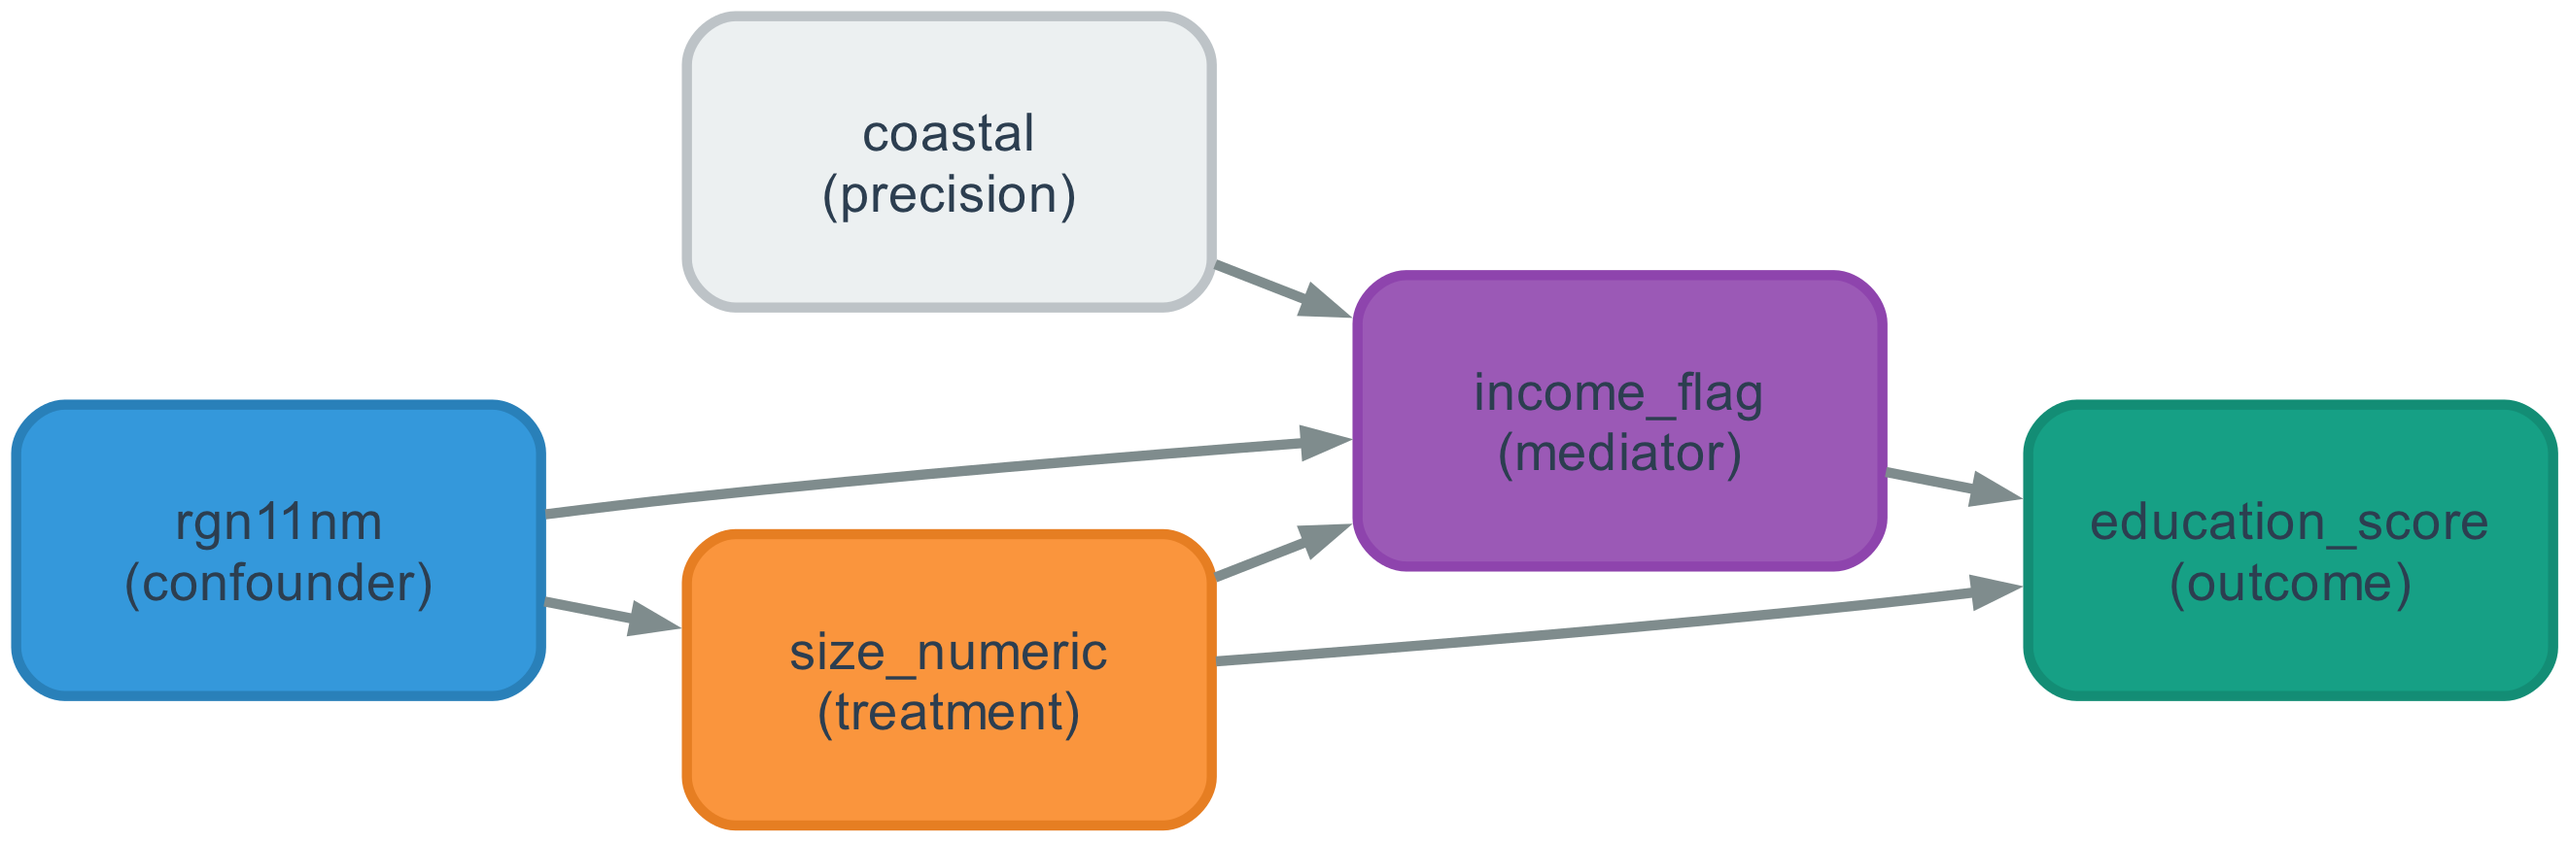
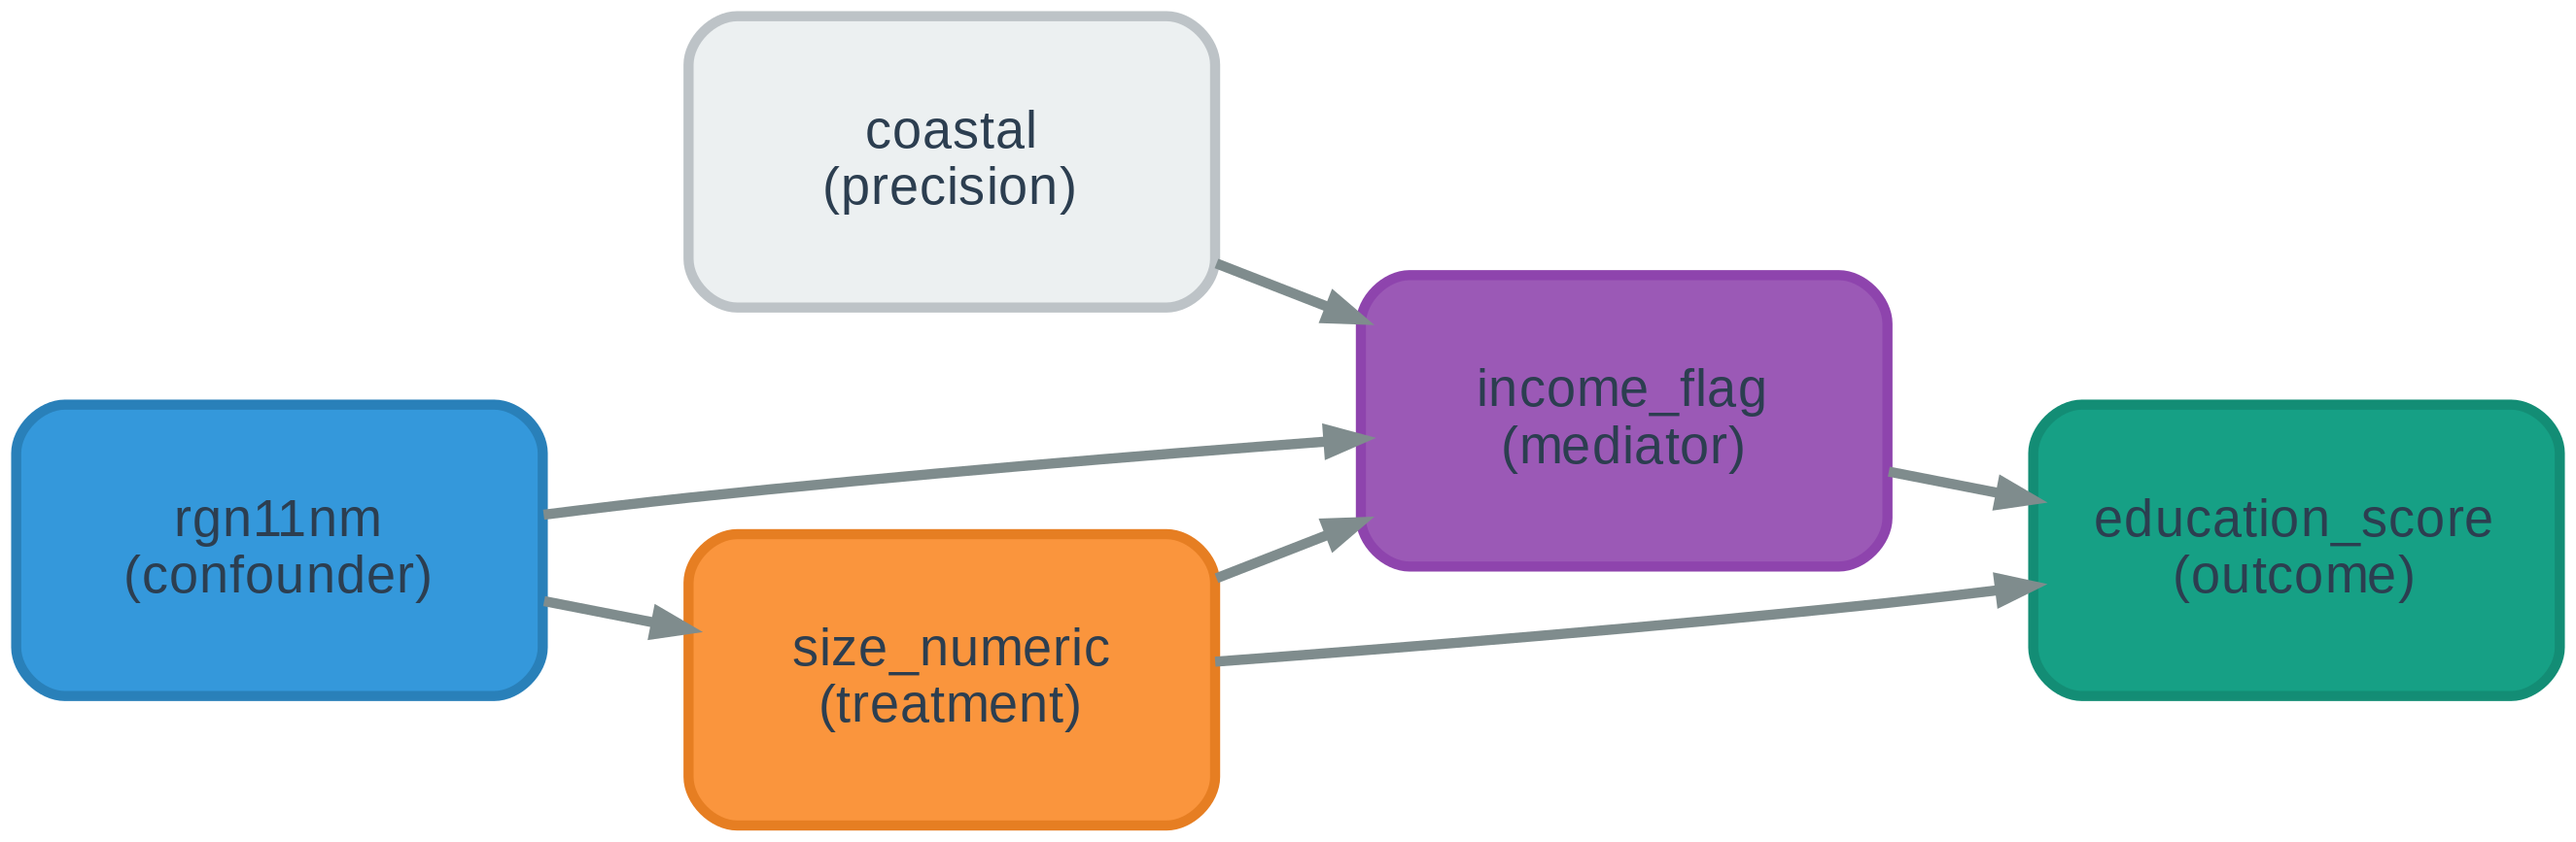
Rename causal-duplo to causal-blocks
Rename the package directory duplo/ to causalblocks/ and update every
reference (imports, packaging, README, essay, docs, notebooks, CI) to
avoid the Duplo trademark.

diff --git a/causalblocks/dag.py b/causalblocks/dag.py
@@ -71,7 +71,7 @@ class CausalDAG:
         dag.add("town_size", to={"income": 0.4, "attainment": 0.7})
         dag.add("income", to={"attainment": 2.1})
 
-    Edge weights are only used by :func:`duplo.simulate.simulate`; they default
+    Edge weights are only used by :func:`causalblocks.simulate.simulate`; they default
     to 1.0 and can be ignored entirely if you are not simulating.
     """
 

diff --git a/causalblocks/__init__.py b/causalblocks/__init__.py
@@ -1,6 +1,6 @@
-"""causal-duplo: build a causal DAG once, and derive everything else from it.
+"""causal-blocks: build a causal DAG once, and derive everything else from it.
 
-    from duplo import CausalDAG, simulate, true_total_effect
+    from causalblocks import CausalDAG, simulate, true_total_effect
 
     dag = (
         CausalDAG()

diff --git a/causalblocks/style.py b/causalblocks/style.py
@@ -1,7 +1,7 @@
 """Colour palette, shared by the DAG renderer and the matplotlib charts.
 
 Colours are keyed by *role*, not by node, so a diagram cannot say something the
-graph does not. See :mod:`duplo.dag` for where roles come from.
+graph does not. See :mod:`causalblocks.dag` for where roles come from.
 """
 
 from .dag import Role

diff --git a/tests/test_dag.py b/tests/test_dag.py
@@ -3,7 +3,7 @@
 import networkx as nx
 import pytest
 
-from duplo import CausalDAG, CyclicGraphError, Role, confounded, m_bias, mediated
+from causalblocks import CausalDAG, CyclicGraphError, Role, confounded, m_bias, mediated
 
 
 class TestConstruction:

diff --git a/tests/test_simulate.py b/tests/test_simulate.py
@@ -9,7 +9,7 @@ import numpy as np
 import pytest
 import statsmodels.api as sm
 
-from duplo import (
+from causalblocks import (
     CausalDAG,
     CyclicGraphError,
     confounded,

diff --git a/README.md b/README.md
@@ -1,4 +1,4 @@
-# causal-duplo
+# causal-blocks
 
 **Do small towns provide better education?** England's smaller towns post better
 educational outcomes than its larger ones. Adjust for deprivation and the
@@ -33,7 +33,7 @@ chances to write it differently.
 So you author it once:
 
 ```python
-from duplo import CausalDAG
+from causalblocks import CausalDAG
 
 dag = (
     CausalDAG()
@@ -92,7 +92,7 @@ path-tracing rule. So you can plant an effect and check an estimator finds it:
 
 ```python
 import statsmodels.api as sm
-from duplo import simulate, true_total_effect, m_bias
+from causalblocks import simulate, true_total_effect, m_bias
 
 def ols(df, treatment, outcome, controls=()):
     design = sm.add_constant(df[[treatment, *controls]])
@@ -131,7 +131,7 @@ Python 3.11+, and [Graphviz](https://graphviz.org/download/)
 (`brew install graphviz` / `apt install graphviz`).
 
 ```bash
-git clone https://github.com/oozr/causal-duplo && cd causal-duplo
+git clone https://github.com/oozr/causal-blocks && cd causal-blocks
 python -m venv .venv && source .venv/bin/activate
 pip install -e ".[dev]"
 pytest
@@ -143,7 +143,7 @@ jupyter lab notebooks/
 ## Layout
 
 ```
-duplo/
+causalblocks/
   dag.py        CausalDAG: build, infer roles, explain, draw, export
   simulate.py   linear-Gaussian SCM + closed-form ground truth
   examples.py   three graphs with known answers

diff --git a/docs/dowhy-reference.md b/docs/dowhy-reference.md
@@ -116,9 +116,9 @@ dowhy.datasets.xy_dataset(effect=1.2, sd_error=0.2)
 | `sd_error` | noise standard deviation |
 | `treatment_is_binary` | make treatment 0/1 rather than continuous |
 
-`duplo.simulate` covers the same ground from a DAG you wrote yourself, with
+`causalblocks.simulate` covers the same ground from a DAG you wrote yourself, with
 `true_total_effect()` as the ground truth. Use DoWhy's when you want a standard
-setup; use `duplo`'s when the graph shape is the thing you are studying.
+setup; use `causalblocks`'s when the graph shape is the thing you are studying.
 
 ### Fat-tailed noise
 

diff --git a/essay/causality-belongs-in-the-curriculum.md b/essay/causality-belongs-in-the-curriculum.md
@@ -199,7 +199,7 @@ material answers the question you were hired to answer.
 
 *The full analysis, the simulated worked examples, and the small library that
 derives variable roles from graph structure are in
-[causal-duplo](https://github.com/oozr/causal-duplo). Data: ONS,
+[causal-blocks](https://github.com/oozr/causal-blocks). Data: ONS,
 [Educational attainment of young people in English towns](https://www.ons.gov.uk/peoplepopulationandcommunity/educationandchildcare/datasets/educationalattainmentofyoungpeopleinenglishtownsdata)
 (2023), Open Government Licence v3.0.*
 
